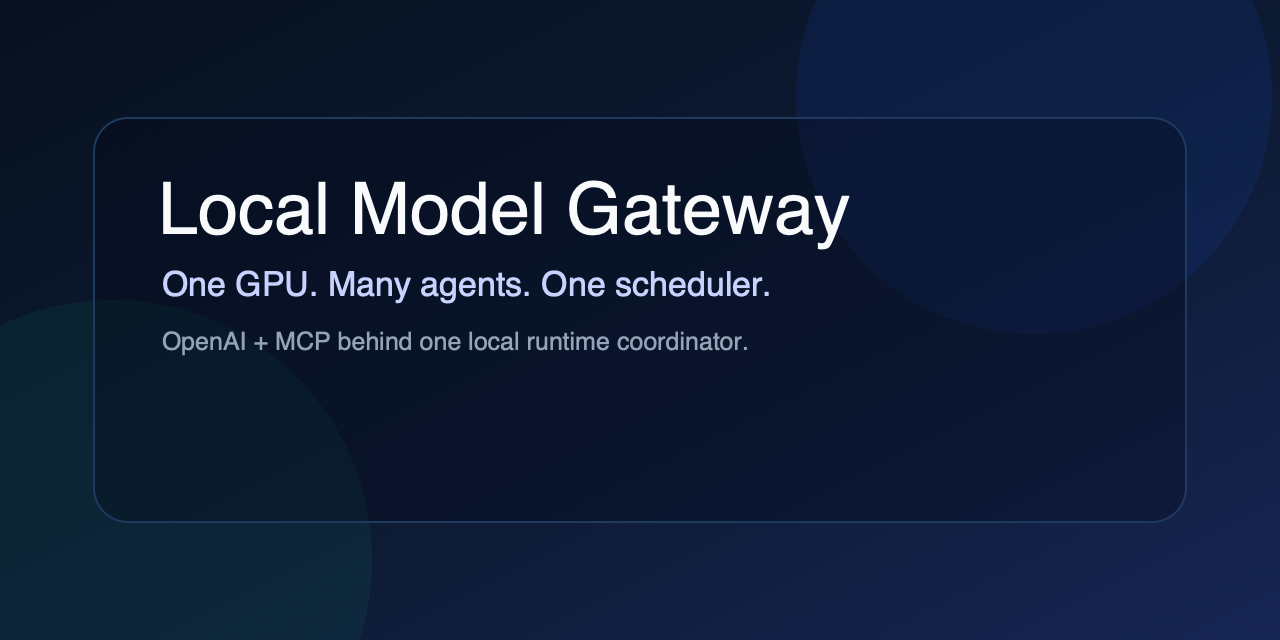
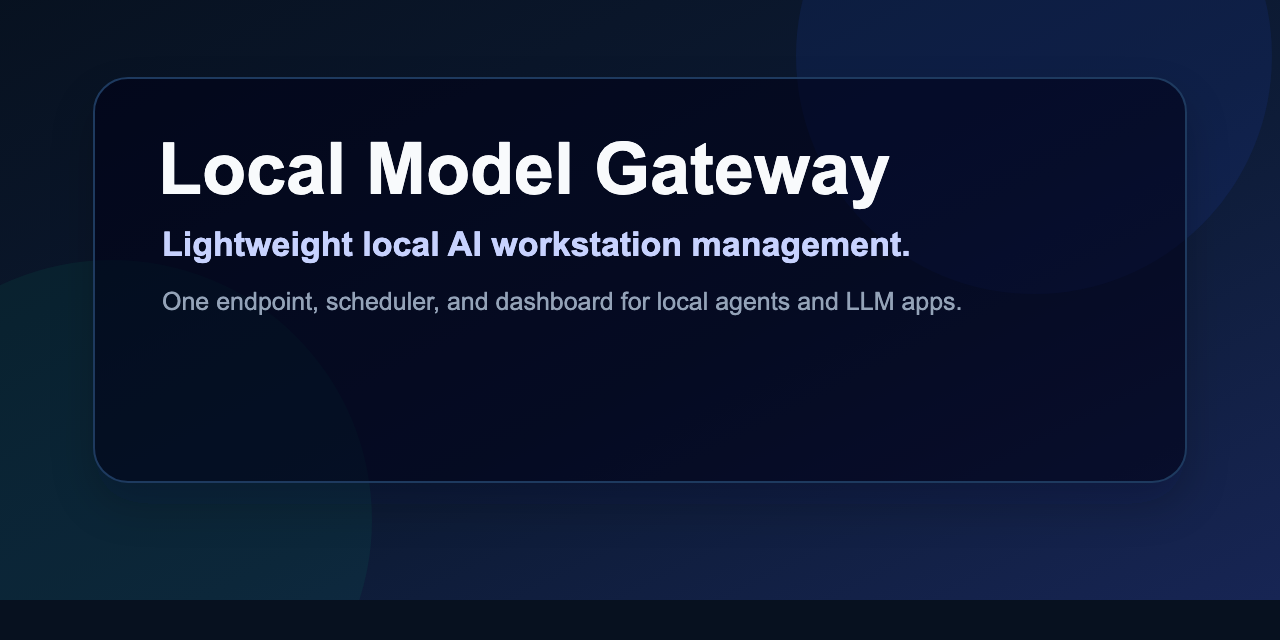
Update project positioning

diff --git a/README.md b/README.md
@@ -2,8 +2,10 @@
 
 [![CI](https://github.com/vstep1/local-model-gateway/actions/workflows/ci.yml/badge.svg)](https://github.com/vstep1/local-model-gateway/actions/workflows/ci.yml) [![License: MIT](https://img.shields.io/badge/license-MIT-green.svg)](LICENSE) [![Node](https://img.shields.io/badge/node-%3E%3D22-blue.svg)](package.json) [![Release](https://img.shields.io/github/v/release/vstep1/local-model-gateway?label=release&color=brightgreen)](https://github.com/vstep1/local-model-gateway/releases) [![Protocols](https://img.shields.io/badge/protocols-OpenAI%20%2B%20MCP-purple.svg)](#protocols)
 
-Local Model Gateway is a local-first control plane for running agent workloads on
-one workstation GPU.
+Local Model Gateway is lightweight local AI workstation management.
+
+One endpoint, scheduler, and dashboard for coordinating model access across
+local agents and LLM apps.
 
 It exposes a stable OpenAI-compatible API and a Streamable HTTP MCP endpoint,
 then puts all GPU-bound work behind one SQLite-backed scheduler. Agents can ask
@@ -17,9 +19,9 @@ Works with:
 
 ## Demo
 
-Watch a 58-second demo of multiple local clients sharing one OpenAI-compatible
-endpoint while the gateway queues requests, swaps model residency, and keeps
-active work uninterrupted:
+Watch a 58-second demo of multiple local clients sharing one endpoint while the
+gateway queues requests, swaps model residency, and keeps active work
+uninterrupted:
 
 https://github.com/user-attachments/assets/d48e4422-46f5-4355-bfa3-7a964bde9a6b
 
@@ -38,7 +40,8 @@ that breaks down quickly:
 - loading every MCP tool schema into an agent prompt wastes context before the
   user asks for any tool
 
-Local Model Gateway gives those moving parts one admission layer.
+Local Model Gateway gives those moving parts one shared scheduler and a browser
+dashboard.
 
 ## Use Cases
 
@@ -57,7 +60,7 @@ Local Model Gateway gives those moving parts one admission layer.
 | MCP endpoint | Runtime control and setup tools over Streamable HTTP at `/mcp`. |
 | Durable GPU queue | SQLite-backed priority/FIFO work admission across URL and MCP entrypoints. |
 | Runtime residency | Starts, health-checks, unloads, and swaps managed local runtimes on demand. |
-| Browser dashboard | Read-only `/dashboard` view for loaded models, active work, and queued GPU requests. |
+| Browser dashboard | Read-only `/dashboard` view for loaded models, load progress, prefill, bandwidth, active work, and queued GPU requests. |
 | Launch adapters | macOS launchd and generic shell helpers now, with systemd/Docker planned. |
 | Lazy MCP broker | Keeps downstream MCP catalogs out of the prompt until a tool is actually searched or described. |
 | Discovery manifest | `/.well-known/local-model-gateway.json` for clients that want model, timeout, and endpoint hints. |
@@ -297,15 +300,16 @@ package dry run.
 
 Near-term:
 
+- dashboard controls for cancel, unload, and start runtime actions
 - richer `doctor` checks for actual runtime service readiness
-- end-to-end fake-runtime smoke tests for streaming, cancellation, and swaps
+- model/runtime templates for common local workstation setups
 - npm publish workflow for the CLI package
-- richer screenshots and terminal recordings for setup flows beyond the main demo
+- stronger demo coverage for multi-agent local workstation workflows
 
 Later:
 
 - runtime auto-detection recipes for common local model servers
-- web dashboard for queue and residency state
+- Linux systemd and Docker runtime adapters beyond the current stubs
 - stronger broker policies for metered/write tools with confirmations
 - portable service installer templates beyond launchd
 

diff --git a/packages/cli/README.md b/packages/cli/README.md
@@ -1,10 +1,9 @@
 # local-model-gateway CLI
 
-Install, configure, inspect, and run Local Model Gateway.
+Install, configure, inspect, and run lightweight local AI workstation management.
 
 ```bash
 npx local-model-gateway init
 npx local-model-gateway doctor
 npx local-model-gateway start
 ```
-

diff --git a/packages/core/README.md b/packages/core/README.md
@@ -1,5 +1,4 @@
 # @local-model-gateway/core
 
 Core SQLite queue, model registry, runtime coordinator, config loader, and
-OpenAI upstream proxy helpers for Local Model Gateway.
-
+OpenAI upstream proxy helpers for local AI workstation management.

diff --git a/packages/gateway/README.md b/packages/gateway/README.md
@@ -1,4 +1,4 @@
 # @local-model-gateway/gateway
 
-OpenAI-compatible HTTP routes and MCP tools for Local Model Gateway.
-
+OpenAI-compatible HTTP routes and MCP tools for coordinating local agents,
+models, and workstation GPU access.
